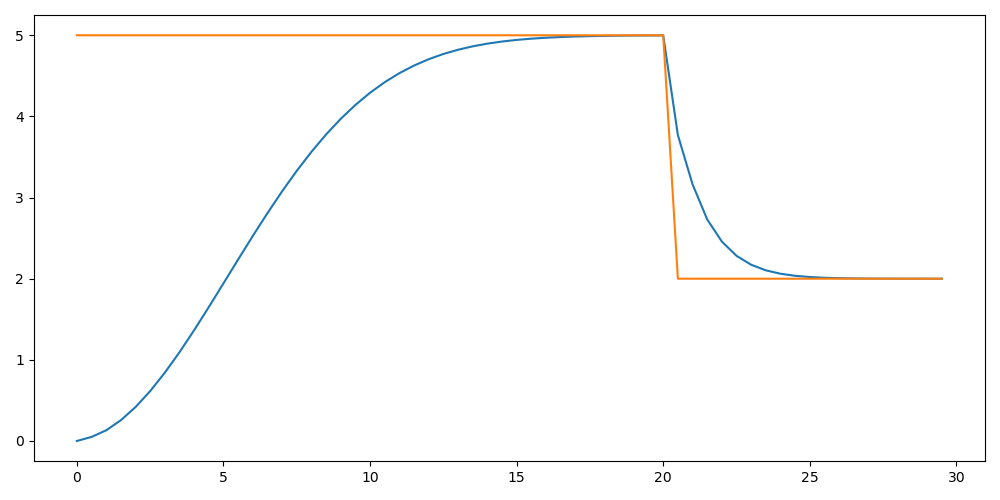
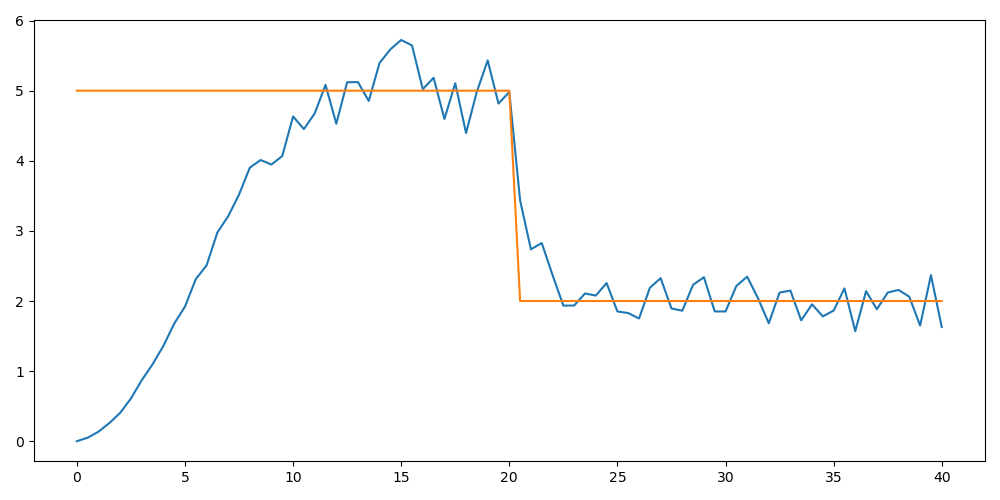
Test case for control question

diff --git a/pid/pid_sim.py b/pid/pid_sim.py
@@ -1,4 +1,5 @@
 import numpy as np
+import random
 
 # Must have this installed
 import matplotlib.pyplot as plt
@@ -7,10 +8,12 @@ import matplotlib.pyplot as plt
 def compute_action(Kp, TI, TD, e, e_old, e_older, action_old, dt, dt_old):
     KI = Kp / TI
     KD = Kp * TD
+    # NOTE: Removed the old_action + ...
+    #   This makes this return a differential (i.e., dAct = compute)
     if dt_old > 0:
-        return action_old + Kp*(e-e_old) + KI*e*dt + KD*((e-e_old)/dt) + KD*((e_old-e_older)/dt_old)
+        return 0 + Kp*(e-e_old) + KI*e*dt + KD*((e-e_old)/dt) + KD*((e_old-e_older)/dt_old)
     else:
-        return action_old + Kp*(e-e_old) + KI*e*dt + 0.5*KD*((e-e_old)/dt)
+        return 0 + Kp*(e-e_old) + KI*e*dt + 0.5*KD*((e-e_old)/dt)
 
 # Defines error
 def error_func(r, y):
@@ -41,7 +44,7 @@ x_set.append(old_time)
 target_set.append(current_setpoint)
 
 # test loop
-for i in range(0,1000):
+for i in range(0,80):
     new_time = (i+1)/2
     dt = new_time - time
     dt_old = time - old_time
@@ -50,8 +53,8 @@ for i in range(0,1000):
         current_setpoint = 2
 
     new_error = error_func(current_setpoint, current_measured_value)
-    if abs(new_error) < 1e-4:
-        break
+    #if abs(new_error) < 0.01:
+    #    break
 
     error = error_func(current_setpoint, old_measured_value)
     old_error = error_func(current_setpoint, older_measured_value)
@@ -59,10 +62,22 @@ for i in range(0,1000):
     new_action = compute_action(Kp, TI, TD, new_error, error,
                                 old_error, old_action, dt, dt_old)
 
+    # What pilot does with action
+    new_action += old_action
+    noise = random.uniform(0.75, 1.25)
+    #print(noise)
+
+    #print(new_action)
+
     older_measured_value = old_measured_value
     old_measured_value = current_measured_value
-    current_measured_value = new_action
+    current_measured_value = new_action*noise
     old_action = new_action
+
+    #print(current_measured_value)
+    #print(current_setpoint)
+
+    #print()
 
     y_set.append(new_action)
     x_set.append(new_time)
